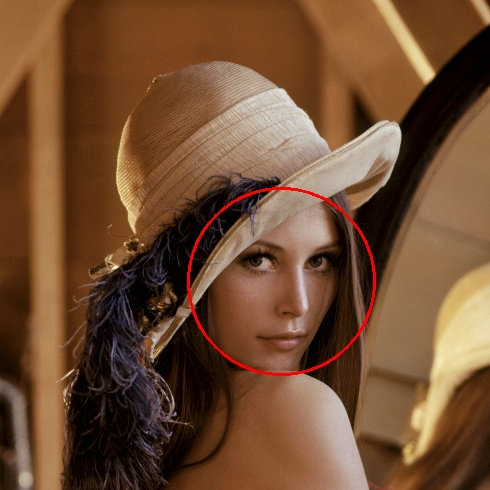
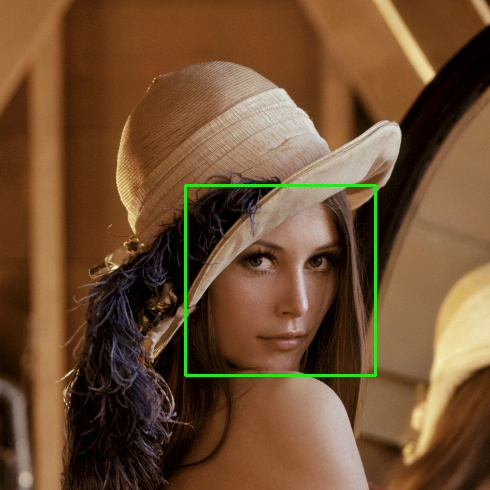
Increased text size

Changed region(s): [[0.3673, 0.3673, 0.7959, 0.7959], [0.4286, 0.4286, 0.4592, 0.4592]]

diff --git a/Basic_Operations/11_assignment.py b/Basic_Operations/11_assignment.py
@@ -10,17 +10,20 @@ height, width = resized_image.shape[:2]
 print(height, width)
 
 # Draw the rectangle
-cv2.rectangle(resized_image, (130, 90), (495, 465), (0, 255, 0), 4)
+cv2.rectangle(resized_image, (130, 95), (495, 465), (0, 255, 0), 4)
 
 # Define text properties
 text = 'RAH972U'
-font = cv2.FONT_ITALIC
-font_scale = 1
+font = cv2.FONT_HERSHEY_SIMPLEX
+font_scale = 1.3
 font_thickness = 2
 text_color = (0, 255, 0)
 
+# Get text size
+(text_width, text_height), baseline = cv2.getTextSize(text, font, font_scale, font_thickness)
+
 # Text position (based on your values)
-x, y = 445, 75
+x, y = 430, 80
 
 # Padding around the text like in result.jpg
 padding_x = 0
@@ -29,8 +32,8 @@ padding_y = 12
 overlay = resized_image.copy() # to not modify resized_image
 cv2.rectangle(
     overlay,
-    (x - padding_x, y - (25 + padding_y)),  # Top-left corner with padding
-    (x + 140 + padding_x, y + padding_y),  # Bottom-right corner with padding
+    (x - padding_x, y - (text_height + padding_y)),  # Top-left corner with padding
+    (x + text_width + padding_x, y + padding_y),  # Bottom-right corner with padding
     (0, 0, 0),  # Rectangle color (black)
     -1  # Fill the rectangle
 )
@@ -39,7 +42,6 @@ cv2.addWeighted(overlay, alpha, resized_image, 1 - alpha, 0, resized_image)
 
 # Add text
 cv2.putText(resized_image, text, (x, y), font, font_scale, text_color, font_thickness)
-# cv2.putText(resized_image, 'RAH972U', (445, 80), cv2.FONT_HERSHEY_SIMPLEX, 1, (0, 255, 0), 2)
 
 # Display the image in a new window named 'Image'
 cv2.imshow('Image', resized_image)
